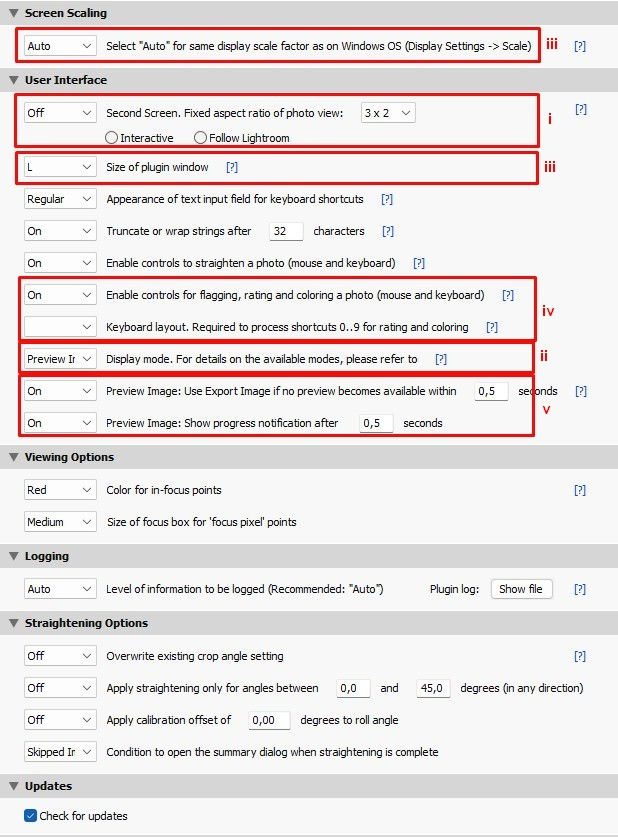
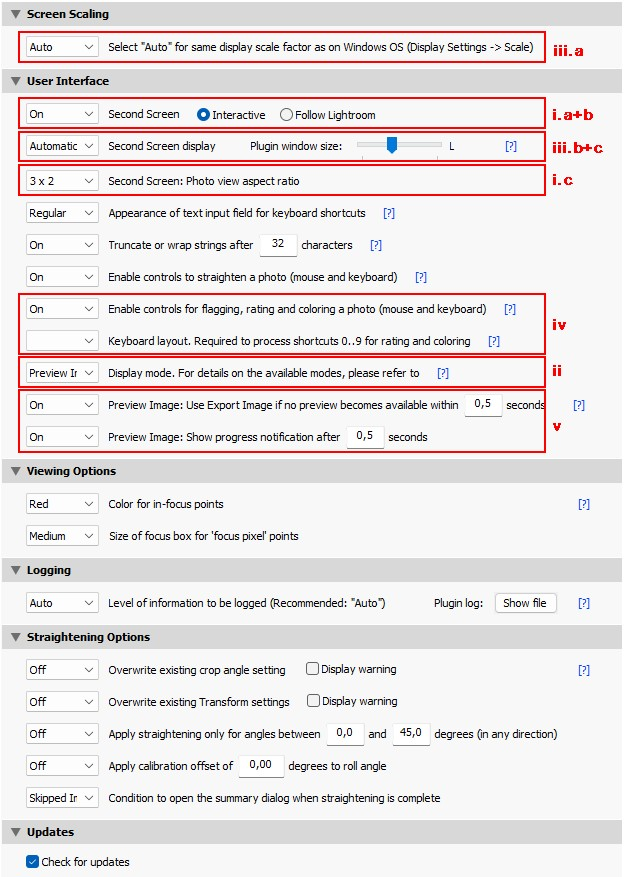
Update docs

diff --git a/docs/V4-Quick-Setup-Guide.md b/docs/V4-Quick-Setup-Guide.md
@@ -20,19 +20,21 @@ To keep things simple, there are separate sections for **[Windows](#setup-on-win
 ## Setup on Windows
 
 1. Download and install the plugin [↗](Focus-Points.md#21-installation)<br><br>
-1. Optional: Load the AutoHotkey script to use a keyboard shortcut to run the plugin [↗](Focus-Points.md#windows)<br><br>
+1. Optional: Configure a keyboard shortcut [↗](Focus-Points.md#windows) to launch Focus Point Viewer.<br><br>
 1. Configure plugin settings:<br>
-   Select `Focus Point Viewer` from the list of installed plugins (_Library → File → Plug-in Manager_) and check the `User Interface` section:<br><br><img src="images/Quick%20Setup%20V3x%20WIN.jpg" alt="Second Screen 1" style="width: 600px;"/><br>
+   Select `Focus Point Viewer` from the list of installed plugins (_Library → File → Plug-in Manager_) and check the `Screen Scaling` and `User Interface` sections:<br><br>
+    <img src="images/Quick%20Setup%20V3x%20WIN.jpg" alt="Second Screen 1" style="width: 600px;"/><br>
     _The highlighted settings are the only ones that normally require attention. All other settings can safely remain at their defaults._<br><br>
  
    1. Set your preferred plugin window size. 
-      1. If you are using the Windows Display Settings to scale your display, you can use the `Screen Scaling` setting to apply the same or a similar setting for the plugin window. [↗](Focus-Points.md#screen-scaling)
-      2. While the `Screen Scaling` setting can be used to normalize the plugin window size, the `Size of plugin window` setting can be used to define its dimensions. There are six sizes to choose from, ranging from 3XL to S. These correspond to 90% (3XL) to 40% (S) of the screen area used by Lightroom. [↗](Focus-Points.md#size-of-plugin-window)<br><br>
+      1. If you are using the Windows Display Settings to scale your display, you can use the `Screen Scaling` setting to apply the same or a similar setting for the plugin window. Otherwise the plugin window may exceed the dimensions of your screen. [↗](Focus-Points.md#screen-scaling)
+      2. While the `Screen Scaling` setting can be used to normalize the plugin window size, the `Size of plugin window` setting can be used to define its dimensions. There are eleven sizes to choose from, ranging from `4XL` (90%) down to `XS` (40%). The percentage determines the size of the displayed photo relative to the dimensions of the Lightroom application window. [↗](Focus-Points.md#size-of-plugin-window)  
+       You can also change the plugin window size later by using `<` and `>` keyboard shortcuts to make it bigger or smaller.<br><br>
    1. `Controls for flagging, rating and coloring a photo` [↗](Focus-Points.md#enable-controls-for-tagging)<br>
-      1. If you want to use Focus Points Viewer in your image culling process, you can use these controls to tag images. If you don't, you can set it to `Off`, which will make the control bar look less cluttered.
+      1. If you want to use Focus Point Viewer in your image culling process, you can use these controls to tag images. If you don't, you can set it to `Off`, which will make the control bar look less cluttered.
       2. If you also want to use them, select your keyboard layout. This is required because the Shift-0..9 key combinations usually produce codes that depend on the keyboard layout. [↗](Focus-Points.md#keyboard-layout)<br><br> 
    1. `Preview Image` performance settings [↗](Focus-Points.md#how-to-reduce-long-wait-times-when-opening-the-plugin-window-on-windows)<br>
-      On Windows, the time to open Focus Points Viewer largely depends on whether a preview of the selected photo is available in Lightroom. If a preview is available, it can be obtained instantly. Otherwise, it can take several seconds for the plugin window to appear. <br>
+      On Windows, the time to open Focus Point Viewer largely depends on whether a preview of the selected photo is available in Lightroom. If a preview is available, it can be obtained instantly. Otherwise, it can take several seconds for the plugin window to appear. <br>
    You can control how long to wait for a preview. If Lightroom cannot provide one within the given time frame, `Export Image` is used instead. If you are not satisfied with the results produced by the default setting of 0.5 seconds, the user manual provides detailed information on how to determine the best value for your setup. [↗](Focus-Points.md#how-to-reduce-long-wait-times-when-opening-the-plugin-window-on-windows)<br><br>
 
 2. **That's it! You're ready to use Focus Point Viewer.**<br> 
@@ -42,16 +44,16 @@ To keep things simple, there are separate sections for **[Windows](#setup-on-win
 
 ## Setup on macOS
 
-The macOS version has fewer settings than the Windows version. The plugin does not depend on an OS display scaling factor. It uses the `Direct View` display mode, there is no need to handle `Preview Images`. [↗](V4-New-Features.md#2-display-modes)
+The macOS version has fewer settings than the Windows version. The plugin does not depend on an OS display scaling factor. It uses the `Direct View` display mode, so there is no need to handle `Preview Image`. [↗](V4-New-Features.md#2-display-modes)
 
-1. Download and install the plugin [↗](Focus-Points.md#21-installation)
-2. Optional: Assign a shortcut to run the plugin [↗](Focus-Points.md#macos)
+1. Download and install the plugin [↗](Focus-Points.md#21-installation)<br><br>
+2. Optional: Assign a shortcut to run the plugin [↗](Focus-Points.md#macos)<br><br>
 3. Configure plugin settings:<br>
    Select `Focus Point Viewer` from the list of installed plugins (_Library → File → Plug-in Manager_) and check the `User Interface` section:<br><br><img src="images/Quick%20Setup%20V3x%20MAC.jpg" alt="Second Screen 1" style="width: 600px;"/><br>
     _The highlighted settings are the only ones that normally require attention. All other settings can safely remain at their defaults._<br><br>
 
    1. `Controls for flagging, rating and coloring a photo` [↗](Focus-Points.md#enable-controls-for-tagging)<br>
-      1. If you want to use Focus Points Viewer in your image culling process, you can use these controls to tag images. If you don't, you can set it to `Off`, which will make the control bar look less cluttered.
+      1. If you want to use Focus Point Viewer in your image culling process, you can use these controls to tag images. If you don't, you can set it to `Off`, which will make the control bar look less cluttered.
       2. If you also want to use them, select your keyboard layout. This is required because the Shift-0..9 key combinations usually produce codes that depend on the keyboard layout.  [↗](Focus-Points.md#keyboard-layout)<br><br>  
 
 4. **That's it! You're ready to use Focus Point Viewer.**<br> 
@@ -68,32 +70,34 @@ To keep things simple, there are separate sections for **[Windows](#setup-on-win
 
 ## Setup on Windows
 
-1. Download and install the plugin [↗](Focus-Points.md#21-installation)
-2. Load the AutoHotkey companion script [↗](V4-New-Features.md#6-autohotkey-companion-script-for-windows)<br>
-   This script works around current Lightroom SDK limitations to provide a smoother experience in `Follow` and `Interactive` mode.
-3. Optional: Load the AutoHotkey script to use a keyboard shortcut to run the plugin [↗](Focus-Points.md#windows)
-4. Configure plugin settings:<br>
-   Select `Focus Point Viewer` from the list of installed plugins (_Library → File → Plug-in Manager_) and check the `User Interface` section:<br><br><img src="images/Quick%20Setup%20V4%20WIN.jpg" alt="Second Screen 1" style="width: 600px;"/><br>
+1. Download and install the plugin [↗](Focus-Points.md#21-installation)<br><br>
+1. Load the AutoHotkey companion script [↗](V4-New-Features.md#6-autohotkey-companion-script-for-windows) to work around current Lightroom SDK limitations and provide a smoother experience in the `Follow` and `Interactive` modes.<br><br>
+1. Optional: Configure a keyboard shortcut [↗](Focus-Points.md#windows) to launch Focus Point Viewer.<br><br>
+1. Configure plugin settings:<br>
+   Select `Focus Point Viewer` from the list of installed plugins (_Library → File → Plug-in Manager_) and check the `Screen Scaling` and `User Interface` sections:<br><br>
+    <img src="images/Quick%20Setup%20V4%20WIN.jpg" alt="Second Screen 1" style="width: 600px;"/><br>
     _The highlighted settings are the only ones that normally require attention. All other settings can safely remain at their defaults._<br><br>
  
     1. `Second Screen` mode and behavior: [↗](V4-New-Features.md#13-configuration)<br>
-       1. Set `Second Screen` to `On` to continue working in Lightroom while Focus Points Viewer remains open.
-       2. Choose whether you want Focus Point Viewer to `Follow` while you're working in Lightroom or if you want to use it interactively.
-       3. Select the aspect ratio used in Second Screen mode.<br><br>     
+       1. Set `Second Screen` to `On` to continue working in Lightroom while Focus Point Viewer remains open.<br>
+       Set it to `Off` to use the plugin in its legacy mode, as in previous versions, where Lightroom could not be used while the plugin was open. 
+       1. Choose whether you want Focus Point Viewer to `Follow` while you're working in Lightroom or if you want to use it interactively.
+       1. Select the aspect ratio used in Second Screen mode.<br><br>     
    1. `Display mode` [↗](V4-New-Features.md#2-display-modes)<br>
-      1. In Interactive mode, Preview Image is generally the recommended display mode. The use of `Direct View` is currently impaired by a Lightroom SDK limitation. [↗](V4-New-Features.md#5-direct-view-corner-icons-do-not-seamlessly-blend-with-the-photo-when-used-on-windows)
-      2. In `Follow` mode, you may consider `Direct View`, particularly if you are not interested in viewing every photo but only specific ones. `Direct View` is fast and runs entirely in-memory. `Preview Image` involves disk operations that may slightly impair the user experience in Lightroom.  
+      1. In `Interactive` mode, `Preview Image` is generally the recommended display mode. The use of `Direct View` is currently impaired by a Lightroom SDK limitation. [↗](V4-New-Features.md#5-direct-view-corner-icons-do-not-seamlessly-blend-with-the-photo-when-used-on-windows)
+      1. In `Follow` mode, you may consider `Direct View`, particularly if you are not interested in viewing every photo but only specific ones. `Direct View` is fast and runs entirely in-memory. `Preview Image` involves disk operations that may slightly impair the user experience in Lightroom.  
       When you want to inspect a particular photo, you can temporarily switch the display mode to update the image. [↗](V4-New-Features.md#21-changing-the-active-display-mode-on-the-fly)<br><br> 
    1. Set your preferred plugin window size. 
-       1. If you are using the Windows Display Settings to scale your display, you can use the `Screen Scaling` setting to apply the same or a similar setting for the plugin window. [↗](Focus-Points.md#screen-scaling)
-       2. While the `Screen Scaling` setting can be used to normalize the plugin window size, the `Size of plugin window` setting can be used to define its dimensions. There are six sizes to choose from, ranging from 3XL to S. These correspond to 90% (3XL) to 40% (S) of the screen area used by Lightroom. [↗](Focus-Points.md#size-of-plugin-window)<br><br>
+       1. If you are using the Windows Display Settings to scale your display, you can use the `Screen Scaling` setting to apply the same or a similar setting for the plugin window. Otherwise the plugin window may exceed the dimensions of your screen. [↗](Focus-Points.md#screen-scaling)
+       1. If you have a multiple-display setup and you want to run the plugin on another display than Lightroom, use the `Second Screen display` setting to select the display.
+       1. While the `Screen Scaling` setting can be used to normalize the plugin window size, the `Size of plugin window` slider can be used to define its dimensions. There are eleven sizes to choose from, ranging from `4XL` (90%) down to `XS` (40%). The percentage determines the size of the displayed photo relative to the dimensions of the selected display in Lightroom. [↗](Focus-Points.md#size-of-plugin-window)<br><br>
    1. `Controls for flagging, rating and coloring a photo` [↗](Focus-Points.md#enable-controls-for-tagging)<br>
-      1. These controls were originally introduced because Lightroom could not be accessed while Focus Points Viewer was open. This is normally not required in second screen mode. You can set it to `Off`, which will make the control bar look less cluttered.
-      2. If you also want to use these controls in Second Screen mode, select your keyboard layout. [↗](Focus-Points.md#keyboard-layout)<br><br> 
+      1. These controls were originally introduced because Lightroom could not be accessed while Focus Point Viewer was open. This is normally not required in second screen mode. You can set it to `Off`, which will make the control bar look less cluttered.
+      1. If you also want to use these controls in Second Screen mode, select your keyboard layout. [↗](Focus-Points.md#keyboard-layout)<br><br> 
    1. `Preview Image` performance settings [↗](Focus-Points.md#how-to-reduce-long-wait-times-when-opening-the-plugin-window-on-windows)<br>
-      In `Preview Image` display mode, the time to open Focus Points Viewer largely depends on whether a preview of the selected photo is available in Lightroom. If a preview is available, it can be obtained instantly. Otherwise, it can take several seconds for the plugin window to appear. <br>
+      In `Preview Image` display mode, the time required to display a photo largely depends on whether a preview of the selected photo is available in Lightroom. If a preview is available, it can be obtained almost instantly. Otherwise, it can take several seconds for the image to become available. <br>
    You can control how long to wait for a preview. If Lightroom cannot provide one within the given time frame, `Export Image` is used instead. If you are not satisfied with the results produced by the default setting of 0.5 seconds, the user manual provides detailed information on how to determine the best value for your setup. [↗](Focus-Points.md#how-to-reduce-long-wait-times-when-opening-the-plugin-window-on-windows)<br><br>
-2. **That's it! You're ready to use Focus Point Viewer.**<br> 
+1. **That's it! You're ready to use Focus Point Viewer.**<br> 
    You can start it either by pressing the hotkey `NumPad *` (if configured in step 3) or by selecting `File → Plug-in Extras → Show Focus Point`.
 
 <br>
@@ -102,26 +106,28 @@ To keep things simple, there are separate sections for **[Windows](#setup-on-win
 
 The macOS version currently requires less configuration because some V4 features are still under development or limited by the Lightroom SDK.
 
-1. Download and install the plugin [↗](Focus-Points.md#21-installation)
-2. Optional: Assign a shortcut to run the plugin [↗](Focus-Points.md#macos)
-3. Configure plugin settings:<br>
+1. Download and install the plugin [↗](Focus-Points.md#21-installation)<br><br>
+1. Optional: Assign a shortcut to run the plugin [↗](Focus-Points.md#macos)<br><br>
+1. Configure plugin settings:<br>
    Select `Focus Point Viewer` from the list of installed plugins (_Library → File → Plug-in Manager_) and check the `User Interface` section:<br><br><img src="images/Quick%20Setup%20V4%20MAC.jpg" alt="Second Screen 1" style="width: 600px;"/><br>
      _The highlighted settings are the only ones that normally require attention. All other settings can safely remain at their defaults._<br><br>
 
-   1. `Second Screen` mode and behavior: [↗](V4-New-Features.md#13-configuration)<br>
-      1. Set `Second Screen` to `On` to continue working in Lightroom while Focus Points Viewer remains open.
-      1. Currently, `Interactive` is the recommended mode for macOS. Current Lightroom SDK limitations significantly limit the usability of `Follow` mode because the plugin window<br>
-         - will not keep its position on a secondary display but switch back to the primary screen [↗](V4-New-Features.md#1-focus-point-viewer-does-not-remember-its-position-on-a-secondary-monitor-on-macos) 
-         - will become the active window when opened, thus interrupting user operations in Lightroom [↗](V4-New-Features.md#2-focus-point-viewer-always-becomes-the-active-window-when-opened)
+    1. `Second Screen` mode and behavior: [↗](V4-New-Features.md#13-configuration)<br>
+       1. Set `Second Screen` to `On` to continue working in Lightroom while Focus Point Viewer remains open.<br>
+       Set it to `Off` to use the plugin in its legacy mode, as in previous versions, where Lightroom could not be used while the plugin was open. 
+       1. Currently, `Interactive` is the recommended mode for macOS. Current Lightroom SDK limitations affect the usability of `Follow` mode because each time the plugin window is refreshed (closed and reopened), it becomes the active window and takes focus away from Lightroom, interrupting ongoing operations. [↗](V4-New-Features.md#2-focus-point-viewer-always-becomes-the-active-window-when-opened)<br>
+        If the `Follow` workflow is important to you, please vote for the linked Adobe bug report. Community votes help increase its visibility.
    
-         If the `Follow` workflow is important to you, **please vote** for the linked Adobe bug reports. Community votes help increase its visibility.
-   
-      3. Select the aspect ratio used in Second Screen mode.<br><br>     
-   1. `Controls for flagging, rating and coloring a photo` [↗](Focus-Points.md#enable-controls-for-tagging)<br>
-      1. These controls were originally introduced because Lightroom could not be accessed while Focus Points Viewer was open. This is normally not required in second screen mode. You can set it to `Off`, which will make the control bar look less cluttered.
-      2. If you also want to use these controls in Second Screen mode, select your keyboard layout. [↗](Focus-Points.md#keyboard-layout)<br><br>
-      
-   **Note:** V4 PRE 1 only supports `Direct View` on macOS. With the addition of `Preview Image` and `Export Image` in an upcoming pre-release, the `Display mode` settings  and the `Preview Image` performance control settings will also become available on macOS.<br><br>
+       1. Select the aspect ratio used in Second Screen mode.<br><br>     
+   1. Set your preferred plugin window size. 
+       1. If you have a multiple-display setup and you want to run the plugin on another display than Lightroom, use the `Second Screen display` setting to select the display.
+       1. Use the `Size of plugin window` slider to define the dimensions of the plugin window. There are eleven sizes to choose from, ranging from `4XL` (90%) down to `XS` (40%). The percentage determines the size of the displayed photo relative to the dimensions of the selected display in Lightroom. [↗](Focus-Points.md#size-of-plugin-window)<br><br>
 
-4. **That's it! You're ready to use Focus Point Viewer.**<br>
+   1. `Controls for flagging, rating and coloring a photo` [↗](Focus-Points.md#enable-controls-for-tagging)<br>
+      1. These controls were originally introduced because Lightroom could not be accessed while Focus Point Viewer was open. This is normally not required in second screen mode. You can set it to `Off`, which will make the control bar look less cluttered.
+      1. If you also want to use these controls in Second Screen mode, select your keyboard layout. [↗](Focus-Points.md#keyboard-layout)<br><br>
+      
+   **Note:** V4 PRE 5 only supports `Direct View` on macOS. With the addition of `Preview Image` and `Export Image` in an upcoming pre-release, the `Display mode` settings and the `Preview Image` performance control settings will also become available on macOS.<br><br>
+
+1. **That's it! You're ready to use Focus Point Viewer.**<br>
    You can start it either by pressing the hotkey you configured in step 2 or by selecting `File → Plug-in Extras → Show Focus Point`.
